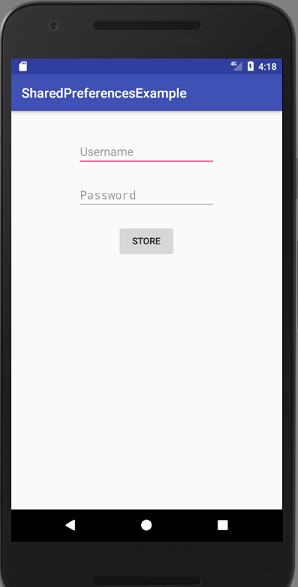
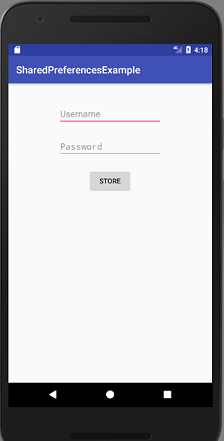
Added more images of the featured activity on the main page

Changed region(s): [[0.9062, 0.0884, 0.9688, 0.8549], [0.0625, 0.1474, 0.625, 0.1769], [0.4688, 0.3832, 0.5312, 0.4127]]

diff --git a/pages/main.html b/pages/main.html
@@ -54,10 +54,15 @@ When an app does not secure stored data, like data files, shared references, and
 
 <p>
 
-<a href="index.html?page=datastorage">
-  <img src="../images/secureStorageScreenshot.PNG" alt="Secure Storage"></img>
-
-  </a>
+	<a href="index.html?page=datastorage">
+	  <img src="../images/secureStorageScreenshot.PNG" alt="Secure Storage"></img>
+	</a>
+	<a href="index.html?page=datastorage">
+		<img src="../images/secureStorageActivity2.PNG" alt="Secure Storage"></img>
+	</a>
+	<a href="index.html?page=datastorage">
+		<img src="../images/secureStorageActivity3.PNG" alt="Secure Storage"></img>
+	</a>
 </p>
 
 
